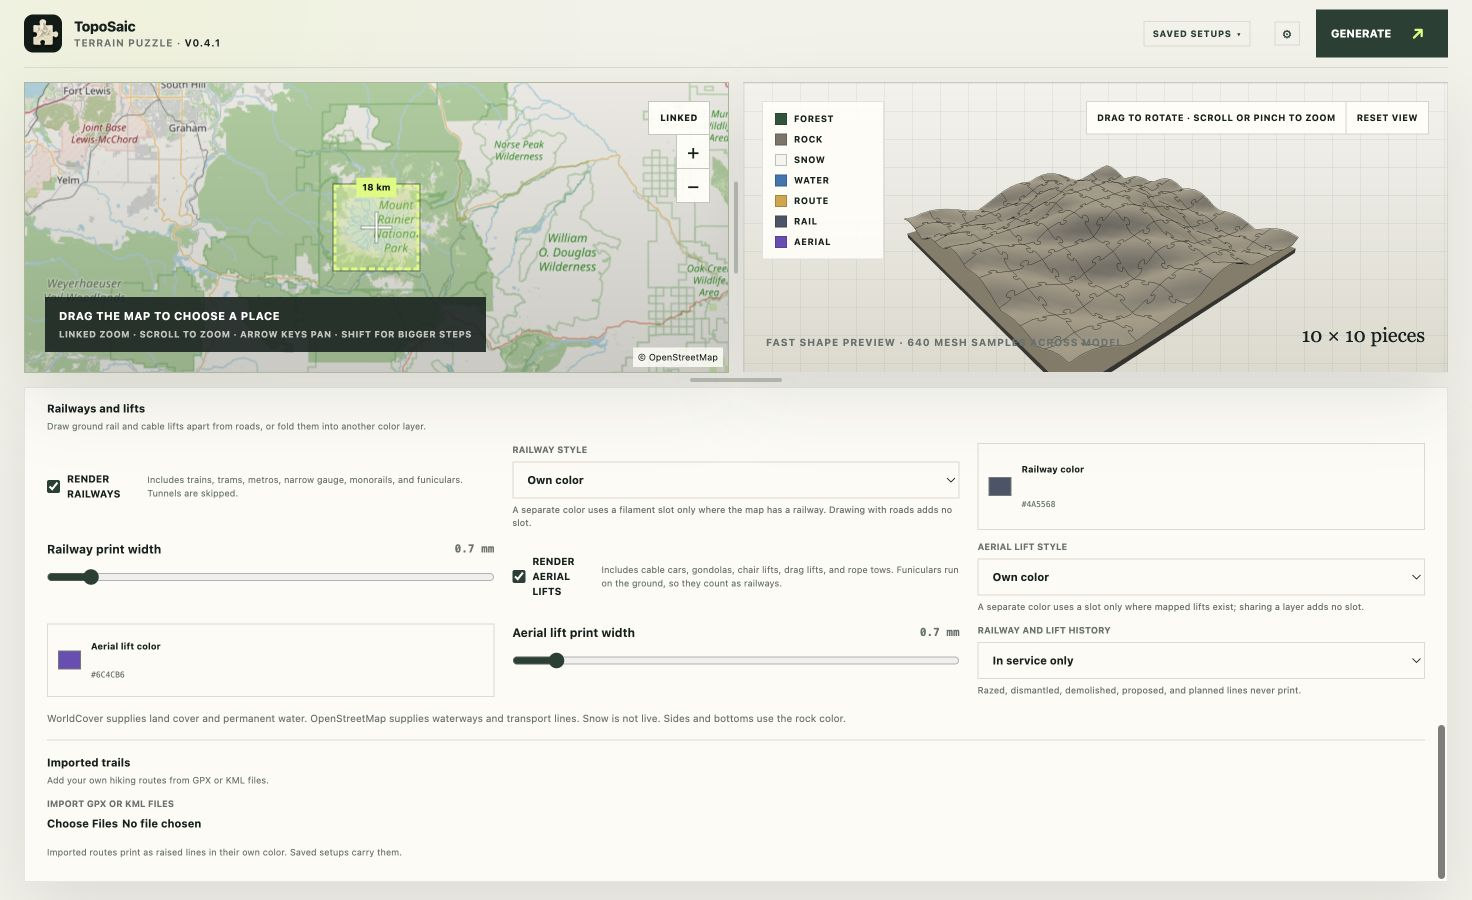
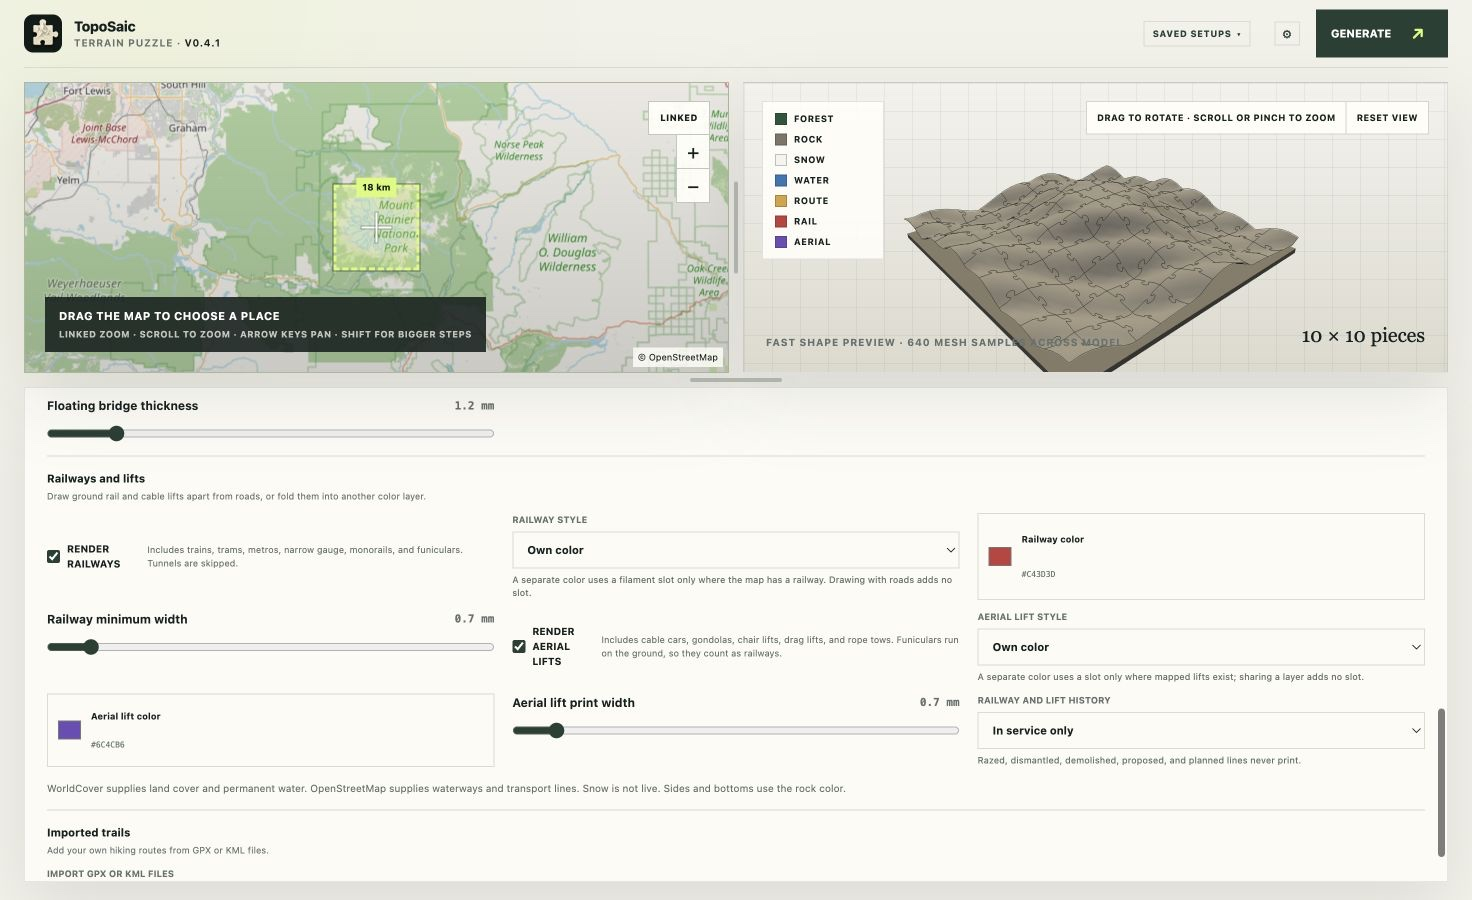
Use red as the default railway color

diff --git a/app/terrain/config.ts b/app/terrain/config.ts
@@ -117,8 +117,8 @@ export const initialSpec: GenerationSpec = {
     // ColorOutputSpec in crates/toposaic-core/src/spec.rs — change both
     // together.
     rail_enabled: true,
-    // Slate blue-grey: steel against the gold roads and raspberry trails.
-    rail_color: "#4A5568",
+    // Clear red against the gold roads and raspberry trails.
+    rail_color: "#C43D3D",
     rail_width_mm: 0.7,
     // Picked out in their own color, which is the point of drawing them.
     // The 3MF packs its palette from the mapped data, so the slot costs

diff --git a/crates/toposaic-core/src/spec.rs b/crates/toposaic-core/src/spec.rs
@@ -1448,9 +1448,9 @@ impl Default for ColorOutputSpec {
             trail_color: "#D6336C".into(),
             trail_width_mm: 0.7,
             rail_enabled: true,
-            // Slate blue-grey: reads as steel against the gold roads and
-            // the raspberry trails without competing with the water blue.
-            rail_color: "#4A5568".into(),
+            // Clear red against the gold roads and raspberry trails, and
+            // apart from the water blue.
+            rail_color: "#C43D3D".into(),
             rail_width_mm: 0.7,
             rail_style: RailStyle::default(),
             rail_lifecycle: RailLifecycle::default(),
@@ -1698,7 +1698,7 @@ mod tests {
     /// key flat, every key in the old order.
     #[test]
     fn default_spec_serializes_to_the_exact_flat_wire_format() {
-        let expected = r##"{"center_lat":46.8523,"center_lon":-121.7603,"elevation_source":"mapzen","ground_span_km":18.0,"width_mm":180.0,"rows":3,"columns":3,"base_mm":3.2,"relief_mm":28.0,"elevation_datum_m":null,"elevation_m_per_mm":null,"adjacent_columns":1,"adjacent_rows":1,"super_tile_anchor":"top_left","adjacent_interlocks":false,"adjacent_tile_column":0,"adjacent_tile_row":0,"clearance_mm":0.14,"samples_per_piece":64,"overlay_samples_per_piece":112,"mesh_samples_across":null,"overlay_samples_across":null,"fine_dem_detail":false,"despike_terrain":true,"solid_model":false,"straight_piece_sides":false,"puzzle_tabs":true,"place_name":"Mount Rainier","tray":{"enabled":false,"individual_tiles":false,"contours_enabled":true,"tray_color":"#252822","contour_color":"#E7E4D8","label_color":"#F4F3EC","clearance_mm":0.6,"rim_width_mm":8.0,"floor_mm":2.4,"rim_height_mm":3.2,"contour_count":18,"segment_columns":1,"segment_rows":1},"puzzle_retention":{"enabled":false,"pin_diameter_mm":3.0,"pin_height_mm":1.0,"clearance_mm":0.2},"wall_mount":{"style":"none","target":"terrain","vertical_position_ratio":0.28,"depth_mm":1.6,"thickness_mm":1.2,"wall_offset_mm":0.8,"pin_diameter_mm":4.0,"pin_count":1,"pin_spacing_mm":32.0,"cleat_width_mm":12.0,"export_hardware":true,"fit_clearance_mm":0.2,"screw_hole_diameter_mm":3.5,"screw_countersink_depth_mm":0.8,"screw_head_clearance_mm":0.4,"wide_edge_screws":true},"buildings":{"enabled":false,"z_scale":5.0},"color_output":{"enabled":false,"threemf_style":"project","forest_color":"#28543A","rock_color":"#7C7468","snow_color":"#F4F3EC","water_color":"#2F76B5","road_color":"#D8A33C","building_color":"#B8A890","trail_color":"#D6336C","trail_width_mm":0.7,"rail_enabled":true,"rail_color":"#4A5568","rail_width_mm":0.7,"rail_style":"separate","rail_lifecycle":"operational","aerial_enabled":true,"aerial_color":"#6C4CB6","aerial_width_mm":0.7,"aerial_style":"separate","roads_enabled":true,"road_detail":"automatic","adaptive_road_widths":true,"scale_line_widths_by_span":true,"close_view_width_multiplier":2.0,"maximum_mapped_width_mm":4.0,"osm_water_enabled":true,"waterway_coverage_percent":12.0,"road_width_mm":0.7,"road_height_mm":0.2,"bridge_structure":"floating","bridge_thickness_mm":1.2,"minimum_patch_mm":1.2,"class_borders":"smooth","border_smoothing_range_cells":2.5,"border_smoothing_nugget":0.05,"forest_slope_gate":true,"forest_slope_limit_degrees":55.0,"steep_forest_target":"rock","snow_slope_gate":true,"snow_slope_limit_degrees":65.0},"trails":[]}"##;
+        let expected = r##"{"center_lat":46.8523,"center_lon":-121.7603,"elevation_source":"mapzen","ground_span_km":18.0,"width_mm":180.0,"rows":3,"columns":3,"base_mm":3.2,"relief_mm":28.0,"elevation_datum_m":null,"elevation_m_per_mm":null,"adjacent_columns":1,"adjacent_rows":1,"super_tile_anchor":"top_left","adjacent_interlocks":false,"adjacent_tile_column":0,"adjacent_tile_row":0,"clearance_mm":0.14,"samples_per_piece":64,"overlay_samples_per_piece":112,"mesh_samples_across":null,"overlay_samples_across":null,"fine_dem_detail":false,"despike_terrain":true,"solid_model":false,"straight_piece_sides":false,"puzzle_tabs":true,"place_name":"Mount Rainier","tray":{"enabled":false,"individual_tiles":false,"contours_enabled":true,"tray_color":"#252822","contour_color":"#E7E4D8","label_color":"#F4F3EC","clearance_mm":0.6,"rim_width_mm":8.0,"floor_mm":2.4,"rim_height_mm":3.2,"contour_count":18,"segment_columns":1,"segment_rows":1},"puzzle_retention":{"enabled":false,"pin_diameter_mm":3.0,"pin_height_mm":1.0,"clearance_mm":0.2},"wall_mount":{"style":"none","target":"terrain","vertical_position_ratio":0.28,"depth_mm":1.6,"thickness_mm":1.2,"wall_offset_mm":0.8,"pin_diameter_mm":4.0,"pin_count":1,"pin_spacing_mm":32.0,"cleat_width_mm":12.0,"export_hardware":true,"fit_clearance_mm":0.2,"screw_hole_diameter_mm":3.5,"screw_countersink_depth_mm":0.8,"screw_head_clearance_mm":0.4,"wide_edge_screws":true},"buildings":{"enabled":false,"z_scale":5.0},"color_output":{"enabled":false,"threemf_style":"project","forest_color":"#28543A","rock_color":"#7C7468","snow_color":"#F4F3EC","water_color":"#2F76B5","road_color":"#D8A33C","building_color":"#B8A890","trail_color":"#D6336C","trail_width_mm":0.7,"rail_enabled":true,"rail_color":"#C43D3D","rail_width_mm":0.7,"rail_style":"separate","rail_lifecycle":"operational","aerial_enabled":true,"aerial_color":"#6C4CB6","aerial_width_mm":0.7,"aerial_style":"separate","roads_enabled":true,"road_detail":"automatic","adaptive_road_widths":true,"scale_line_widths_by_span":true,"close_view_width_multiplier":2.0,"maximum_mapped_width_mm":4.0,"osm_water_enabled":true,"waterway_coverage_percent":12.0,"road_width_mm":0.7,"road_height_mm":0.2,"bridge_structure":"floating","bridge_thickness_mm":1.2,"minimum_patch_mm":1.2,"class_borders":"smooth","border_smoothing_range_cells":2.5,"border_smoothing_nugget":0.05,"forest_slope_gate":true,"forest_slope_limit_degrees":55.0,"steep_forest_target":"rock","snow_slope_gate":true,"snow_slope_limit_degrees":65.0},"trails":[]}"##;
         let serialized = serde_json::to_string(&GenerationSpec::default()).unwrap();
         assert_eq!(serialized, expected);
     }
@@ -2109,7 +2109,7 @@ mod tests {
         assert_eq!(spec.color_output.rail_style, RailStyle::Separate);
         assert_eq!(spec.color_output.aerial_style, AerialStyle::Separate);
         assert_eq!(spec.color_output.rail_lifecycle, RailLifecycle::Operational);
-        assert_eq!(spec.color_output.rail_color, "#4A5568");
+        assert_eq!(spec.color_output.rail_color, "#C43D3D");
         assert_eq!(spec.color_output.aerial_color, "#6C4CB6");
         assert_eq!(spec.color_output.rail_width_mm, 0.7);
         assert_eq!(spec.color_output.aerial_width_mm, 0.7);
@@ -2199,7 +2199,7 @@ mod tests {
         );
         let palette = spec.material_palette(None);
         assert_eq!(palette.len(), 7);
-        assert_eq!(palette.colors()[6], "#4A5568");
+        assert_eq!(palette.colors()[6], "#C43D3D");
         assert_eq!(palette.slot(SurfaceClass::Rail), Some(6));
         assert_eq!(palette.slot(SurfaceClass::Trail), None);
         assert_eq!(palette.slot(SurfaceClass::Building), Some(5));
@@ -2361,7 +2361,7 @@ mod tests {
         spec.color_output.rail_color = "steel".into();
         let error = spec.validate().unwrap_err().to_string();
         assert!(error.contains("rail color"));
-        spec.color_output.rail_color = "#4A5568".into();
+        spec.color_output.rail_color = "#C43D3D".into();
         spec.color_output.aerial_color = "violet".into();
         let error = spec.validate().unwrap_err().to_string();
         assert!(error.contains("aerialway color"));

diff --git a/crates/toposaic-core/src/export.rs b/crates/toposaic-core/src/export.rs
@@ -920,7 +920,7 @@ mod tests {
             Some(&city),
         ));
         assert_eq!(model.matches("<m:color ").count(), 7);
-        assert!(model.contains("color=\"#4A5568FF\""), "the rail color");
+        assert!(model.contains("color=\"#C43D3DFF\""), "the rail color");
         assert!(
             !model.contains("color=\"#6C4CB6FF\""),
             "no lift color for a map with no lifts"
@@ -1042,7 +1042,7 @@ mod tests {
         }
         let model = model_xml(&write_spec_meshes(&spec, &meshes, None));
         assert_eq!(model.matches("<m:color ").count(), 8);
-        assert!(model.contains("color=\"#4A5568FF\""), "the rail color");
+        assert!(model.contains("color=\"#C43D3DFF\""), "the rail color");
         assert!(model.contains("color=\"#6C4CB6FF\""), "the aerialway color");
         assert!(
             !model.contains("color=\"#D6336CFF\""),
@@ -1146,7 +1146,7 @@ mod tests {
                 "{style:?} should keep six colors"
             );
             assert!(!model.contains("paint_color=\"4C\""), "{style:?}");
-            assert!(!model.contains("#4A5568"), "{style:?}");
+            assert!(!model.contains("#C43D3D"), "{style:?}");
             if style == ThreeMfStyle::Project {
                 let bytes = write_rail_fixture(style, RailStyle::WithRoads);
                 let mut archive = zip::ZipArchive::new(std::io::Cursor::new(&bytes)).unwrap();
@@ -1186,7 +1186,7 @@ mod tests {
                 !model.contains("color=\"#D6336CFF\""),
                 "{style:?} must not emit an unreferenced trail placeholder"
             );
-            assert!(model.contains("color=\"#4A5568FF\""), "{style:?}");
+            assert!(model.contains("color=\"#C43D3DFF\""), "{style:?}");
             assert!(
                 model.contains("pid=\"1000\" p1=\"6\" p2=\"6\" p3=\"6\" paint_color=\"4C\"/>"),
                 "{style:?} should face-paint the rail triangle for extruder 7"
@@ -1221,7 +1221,7 @@ mod tests {
         let settings: serde_json::Value = serde_json::from_str(&settings).unwrap();
         let colors = settings["filament_colour"].as_array().unwrap();
         assert_eq!(colors.len(), 7);
-        assert_eq!(colors[6], "#4A5568");
+        assert_eq!(colors[6], "#C43D3D");
         for key in ["filament_settings_id", "filament_type", "filament_vendor"] {
             assert_eq!(settings[key].as_array().unwrap().len(), 7, "{key}");
         }
